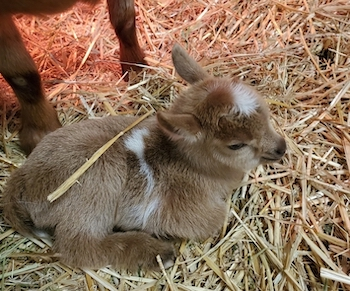
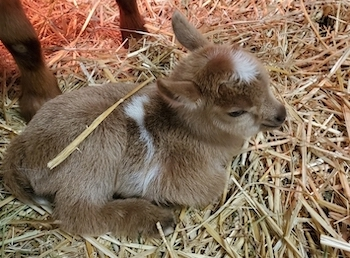
changes to photos nursury

diff --git a/nursery2020.html b/nursery2020.html
@@ -301,11 +301,11 @@
   </div>
   <div class="row-fluid">
     <div class="span3">
-      <div class='no-nursery'></div><br>
+      <img class='nursery-pic' src="img/nursery/2020/M37.jpg"><br>
       M37 - Buck <br><div class='sold'>SOLD</div>
     </div>
     <div class="span3">
-      <div class='no-nursery'></div><br>
+      <img class='nursery-pic' src="img/nursery/2020/M38.jpg"><br>
       M38 - Buck <br><div class='sold'>SOLD</div>
     </div>
   </div>
@@ -327,7 +327,7 @@
       M40 - Doe (blue eyes)<br>
     </div>
     <div class="span4">
-      <div class='no-nursery'></div><br>
+      <img class='nursery-pic' src="img/nursery/2020/M41.jpg"><br>
       M41 - Buck (blue eyes)<br><div class='sold'>SOLD</div>
     </div>
   </div>
@@ -363,15 +363,15 @@
   </div>
   <div class="row-fluid">
     <div class="span4">
-      <div class='no-nursery'></div><br>
+      <img class='nursery-pic' src="img/nursery/2020/M45.jpg"><br>
       M45 - Buck <br><div class='sold'>SOLD</div>
     </div>
     <div class="span4">
-      <div class='no-nursery'></div><br>
+      <img class='nursery-pic' src="img/nursery/2020/M46.jpg"><br>
       M46 - Buck<br>RETAINED
     </div>
     <div class="span4">
-      <div class='no-nursery'></div><br>
+      <img class='nursery-pic' src="img/nursery/2020/M47.jpg"><br>
       M47 - Buck<br><div class='sold'>SOLD</div>
     </div>
   </div>
@@ -385,7 +385,7 @@
   </div>
   <div class="row-fluid">
     <div class="span3">
-      <div class='no-nursery'></div><br>
+      <img class='nursery-pic' src="img/nursery/2020/M48.jpg"><br>
       M48 - Doe <br><div class='sold'>SOLD</div>
     </div>
     <div class="span3">
@@ -393,11 +393,11 @@
       M49 - Doe<br>RETAINED
     </div>
     <div class="span3">
-      <div class='no-nursery'></div><br>
+      <img class='nursery-pic' src="img/nursery/2020/M50.jpg"><br>
       M50 - Buck<br><div class='sold'>SOLD</div>
     </div>
     <div class="span3">
-      <div class='no-nursery'></div><br>
+      <img class='nursery-pic' src="img/nursery/2020/M51.jpg"><br>
       M51 - Buck<br><div class='sold'>SOLD</div>
     </div>
   </div>
@@ -411,7 +411,7 @@
   </div>
   <div class="row-fluid">
     <div class="span3">
-      <div class='no-nursery'></div><br>
+      <img class='nursery-pic' src="img/nursery/2020/M52.jpg"><br>
       M52 - Buck <br><div class='sold'>SOLD</div>
     </div>
     <div class="span3">
@@ -437,7 +437,7 @@
   </div>
   <div class="row-fluid">
     <div class="span3">
-      <div class='no-nursery'></div><br>
+      <img class='nursery-pic' src="img/nursery/2020/M56.jpg"><br>
       M56 - Doe (polled, moonspots)<br><div class='sold'>SOLD</div>
     </div>
     <div class="span3">
@@ -445,7 +445,7 @@
       M57 - Buck (polled)<br><div class='sold'>SOLD</div>
     </div>
     <div class="span3">
-      <div class='no-nursery'></div><br>
+      <img class='nursery-pic' src="img/nursery/2020/M58.jpg"><br>
       M58 - Buck (polled)<br><div class='sold'>SOLD</div>
     </div>
     <div class="span3">
@@ -485,11 +485,11 @@
   </div>
   <div class="row-fluid">
     <div class="span4">
-      <div class='no-nursery'></div><br>
+      <img class='nursery-pic' src="img/nursery/2020/M63.jpg"><br>
       M63 - Doe<br><div class='sold'>SOLD</div>
     </div>
     <div class="span4">
-      <div class='no-nursery'></div><br>
+      <img class='nursery-pic' src="img/nursery/2020/M64.jpg"><br>
       M64 - Buck<br><div class='sold'>SOLD</div>
     </div>
   </div>
@@ -503,7 +503,7 @@
   </div>
   <div class="row-fluid">
     <div class="span4">
-      <div class='no-nursery'></div><br>
+      <img class='nursery-pic' src="img/nursery/2020/M65.jpg"><br>
       M65 - Buck<br><div class='sold'>SOLD</div>
     </div>
   </div>
@@ -517,11 +517,11 @@
   </div>
   <div class="row-fluid">
     <div class="span4">
-      <div class='no-nursery'></div><br>
+      <img class='nursery-pic' src="img/nursery/2020/M66.jpg"><br>
       M66 - Buck<br><div class='sold'>SOLD</div>
     </div>
     <div class="span4">
-      <div class='no-nursery'></div><br>
+      <img class='nursery-pic' src="img/nursery/2020/M67.jpg"><br>
       M67 - Buck<br><div class='sold'>SOLD</div>
     </div>
   </div>
@@ -535,15 +535,15 @@
   </div>
   <div class="row-fluid">
     <div class="span4">
-      <div class='no-nursery'></div><br>
+      <img class='nursery-pic' src="img/nursery/2020/M68.jpg"><br>
       M68 - Doe<br><div class='sold'>SOLD</div>
     </div>
     <div class="span4">
-      <div class='no-nursery'></div><br>
+      <img class='nursery-pic' src="img/nursery/2020/M69.jpg"><br>
       M69 - Buck<br><div class='sold'>SOLD</div>
     </div>
     <div class="span4">
-      <div class='no-nursery'></div><br>
+      <img class='nursery-pic' src="img/nursery/2020/M70.jpg"><br>
       M70 - Doe<br><div class='sold'>SOLD</div>
     </div>
   </div>
@@ -557,11 +557,11 @@
   </div>
   <div class="row-fluid">
     <div class="span4">
-      <div class='no-nursery'></div><br>
+      <img class='nursery-pic' src="img/nursery/2020/M71.jpg"><br>
       M71 - Buck (Blue Eyes, Moonspots)<br><div class='sold'>SOLD</div>
     </div>
     <div class="span4">
-      <div class='no-nursery'></div><br>
+      <img class='nursery-pic' src="img/nursery/2020/M72.jpg"><br>
       M72 - Buck (Blue Eyes)<br><div class='sold'>SOLD</div>
     </div>
   </div>
@@ -575,7 +575,7 @@
   </div>
   <div class="row-fluid">
     <div class="span4">
-      <div class='no-nursery'></div><br>
+      <img class='nursery-pic' src="img/nursery/2020/M73.jpg"><br>
       M73 - Doe<br><div class='sold'>SOLD</div>
     </div>
     <div class="span4">
@@ -601,7 +601,7 @@
       M76 - Doe<br>
     </div>
     <div class="span3">
-      <div class='no-nursery'></div><br>
+      <img class='nursery-pic' src="img/nursery/2020/M77.jpg"><br>
       M77 - Doe (Moonspots)<br><div class='sold'>SOLD</div>
     </div>
     <div class="span3">
@@ -634,7 +634,7 @@
   </div>
   <div class="row-fluid">
     <div class="span3">
-      <div class='no-nursery'></div><br>
+      <img class='nursery-pic' src="img/nursery/2020/M95.jpg"><br>
       M95 - Buck<br>
     </div>
     <div class="span3">
@@ -642,11 +642,11 @@
       M96 - Doe<br>
     </div>
     <div class="span3">
-      <div class='no-nursery'></div><br>
+      <img class='nursery-pic' src="img/nursery/2020/M97.jpg"><br>
       M97 - Buck<br>
     </div>
     <div class="span3">
-      <div class='no-nursery'></div><br>
+      <img class='nursery-pic' src="img/nursery/2020/M98.jpg"><br>
       M98 - Buck<br>
     </div>
   </div>
@@ -660,11 +660,11 @@
   </div>
   <div class="row-fluid">
     <div class="span4">
-      <div class='no-nursery'></div><br>
+      <img class='nursery-pic' src="img/nursery/2020/M99.jpg"><br>
       M99 - Doe<br>
     </div>
     <div class="span4">
-      <div class='no-nursery'></div><br>
+      <img class='nursery-pic' src="img/nursery/2020/M100.jpg"><br>
       M100 - Doe<br>
     </div>
     <div class="span4">
